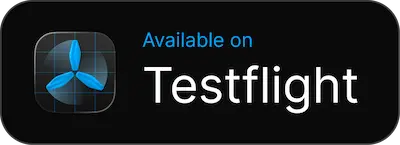
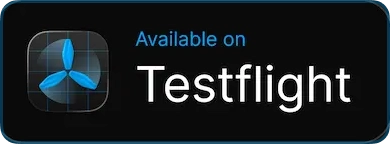
Add a Google Play badge and open the store apps on phones
The Google Play badge sits before the TestFlight one in the hero, and both
badges are a little bigger. On Android, the Play badge opens the Play Store
app; on iOS, the TestFlight badge opens the TestFlight app. Each falls back
to the store's web page if the app doesn't open. The "Join ... Now" card
buttons and the signup page's download button now send Android visitors to
Google Play instead of TestFlight.

diff --git a/index.html b/index.html
@@ -163,8 +163,11 @@
         </div>
       </div>
       <div class="appstore-container">
-        <a href="https://testflight.apple.com/join/nXyfPMSc" class="appstore-link" target="_blank" rel="noopener noreferrer" aria-label="Join Meetfleet TestFlight Beta">
-          <img src="assets/images/testflight.webp" class="appstore-btn" alt="Join TestFlight Beta" height="47" loading="eager">
+        <a href="https://play.google.com/store/apps/details?id=com.meetfleet.mobile" class="appstore-link" data-store="play" target="_blank" rel="noopener noreferrer" aria-label="Get Meetfleet on Google Play">
+          <img src="assets/images/google.webp" class="appstore-btn" alt="Get it on Google Play" width="146" height="54" loading="eager">
+        </a>
+        <a href="https://testflight.apple.com/join/nXyfPMSc" class="appstore-link" data-store="testflight" target="_blank" rel="noopener noreferrer" aria-label="Join Meetfleet TestFlight Beta">
+          <img src="assets/images/testflight.webp" class="appstore-btn" alt="Join TestFlight Beta" width="146" height="54" loading="eager">
         </a>
       </div>
     </section>
@@ -226,7 +229,7 @@
                         d="M12.586 2.586A2 2 0 0 0 11.172 2H4a2 2 0 0 0-2 2v7.172a2 2 0 0 0 .586 1.414l8.704 8.704a2.426 2.426 0 0 0 3.42 0l6.58-6.58a2.426 2.426 0 0 0 0-3.42z" />
                       <circle cx="7.5" cy="7.5" r=".5" fill="currentColor" />
                     </svg><span>Free</span></div>
-                </div><a href="https://testflight.apple.com/join/nXyfPMSc" target="_blank" rel="noopener noreferrer" class="join-btn" data-haptic="heavy">Join Maria Now</a>
+                </div><a href="https://testflight.apple.com/join/nXyfPMSc" target="_blank" rel="noopener noreferrer" class="join-btn" data-store="auto" data-haptic="heavy">Join Maria Now</a>
               </div>
               <div class="card-bottom-state message-state">
                 <div class="message-rect-container">
@@ -284,7 +287,7 @@
                         d="M12.586 2.586A2 2 0 0 0 11.172 2H4a2 2 0 0 0-2 2v7.172a2 2 0 0 0 .586 1.414l8.704 8.704a2.426 2.426 0 0 0 3.42 0l6.58-6.58a2.426 2.426 0 0 0 0-3.42z" />
                       <circle cx="7.5" cy="7.5" r=".5" fill="currentColor" />
                     </svg><span>Free</span></div>
-                </div><a href="https://testflight.apple.com/join/nXyfPMSc" target="_blank" rel="noopener noreferrer" class="join-btn" data-haptic="heavy">Join James Now</a>
+                </div><a href="https://testflight.apple.com/join/nXyfPMSc" target="_blank" rel="noopener noreferrer" class="join-btn" data-store="auto" data-haptic="heavy">Join James Now</a>
               </div>
               <div class="card-bottom-state message-state">
                 <div class="message-rect-container">
@@ -335,7 +338,7 @@
                         d="M20 10c0 4.993-5.539 10.193-7.399 11.799a1 1 0 0 1-1.202 0C9.539 20.193 4 14.993 4 10a8 8 0 0 1 16 0" />
                       <circle cx="12" cy="10" r="3" />
                     </svg><span>Malibu Coast</span></div>
-                </div><a href="https://testflight.apple.com/join/nXyfPMSc" target="_blank" rel="noopener noreferrer" class="join-btn" data-haptic="heavy">Join Alex Now</a>
+                </div><a href="https://testflight.apple.com/join/nXyfPMSc" target="_blank" rel="noopener noreferrer" class="join-btn" data-store="auto" data-haptic="heavy">Join Alex Now</a>
               </div>
               <div class="card-bottom-state message-state">
                 <div class="message-rect-container">
@@ -386,7 +389,7 @@
                         d="M20 10c0 4.993-5.539 10.193-7.399 11.799a1 1 0 0 1-1.202 0C9.539 20.193 4 14.993 4 10a8 8 0 0 1 16 0" />
                       <circle cx="12" cy="10" r="3" />
                     </svg><span>Royal Golf Rabat</span></div>
-                </div><a href="https://testflight.apple.com/join/nXyfPMSc" target="_blank" rel="noopener noreferrer" class="join-btn" data-haptic="heavy">Join Imad Now</a>
+                </div><a href="https://testflight.apple.com/join/nXyfPMSc" target="_blank" rel="noopener noreferrer" class="join-btn" data-store="auto" data-haptic="heavy">Join Imad Now</a>
               </div>
               <div class="card-bottom-state message-state">
                 <div class="message-rect-container">
@@ -444,7 +447,7 @@
                         d="M12.586 2.586A2 2 0 0 0 11.172 2H4a2 2 0 0 0-2 2v7.172a2 2 0 0 0 .586 1.414l8.704 8.704a2.426 2.426 0 0 0 3.42 0l6.58-6.58a2.426 2.426 0 0 0 0-3.42z" />
                       <circle cx="7.5" cy="7.5" r=".5" fill="currentColor" />
                     </svg><span>Free</span></div>
-                </div><a href="https://testflight.apple.com/join/nXyfPMSc" target="_blank" rel="noopener noreferrer" class="join-btn" data-haptic="heavy">Join Sarah Now</a>
+                </div><a href="https://testflight.apple.com/join/nXyfPMSc" target="_blank" rel="noopener noreferrer" class="join-btn" data-store="auto" data-haptic="heavy">Join Sarah Now</a>
               </div>
               <div class="card-bottom-state message-state">
                 <div class="message-rect-container">
@@ -495,7 +498,7 @@
                         d="M20 10c0 4.993-5.539 10.193-7.399 11.799a1 1 0 0 1-1.202 0C9.539 20.193 4 14.993 4 10a8 8 0 0 1 16 0" />
                       <circle cx="12" cy="10" r="3" />
                     </svg><span>Downtown</span></div>
-                </div><a href="https://testflight.apple.com/join/nXyfPMSc" target="_blank" rel="noopener noreferrer" class="join-btn" data-haptic="heavy">Join David Now</a>
+                </div><a href="https://testflight.apple.com/join/nXyfPMSc" target="_blank" rel="noopener noreferrer" class="join-btn" data-store="auto" data-haptic="heavy">Join David Now</a>
               </div>
               <div class="card-bottom-state message-state">
                 <div class="message-rect-container">
@@ -528,6 +531,7 @@
     <a href="https://research.meetfleet.org/">Peer Review</a>
   </footer>
 
+  <script src="store-links.js"></script>
   <script src="main.js"></script>
 </body>
 

diff --git a/store-links.js b/store-links.js
@@ -1,0 +1,56 @@
+/* ── STORE LINKS ──
+ * On phones, open the native store app instead of the store's web page.
+ *   data-store="play"        Google Play badge     → Play Store app on Android
+ *   data-store="testflight"  TestFlight badge      → TestFlight app on iOS
+ *   data-store="auto"        generic download CTA  → whichever store fits the device
+ * Anywhere else (desktop, the "other" phone OS) the link's href is followed as usual.
+ */
+(() => {
+  const PLAY_ID = 'com.meetfleet.mobile';
+  const PLAY_WEB = `https://play.google.com/store/apps/details?id=${PLAY_ID}`;
+  const PLAY_APP = `intent://details?id=${PLAY_ID}#Intent;scheme=market;package=com.android.vending;` +
+    `S.browser_fallback_url=${encodeURIComponent(PLAY_WEB)};end`;
+
+  const TESTFLIGHT_PATH = 'testflight.apple.com/join/nXyfPMSc';
+  const TESTFLIGHT_WEB = `https://${TESTFLIGHT_PATH}`;
+  const TESTFLIGHT_APP = `itms-beta://${TESTFLIGHT_PATH}`;
+
+  const ua = navigator.userAgent || '';
+  const isAndroid = /Android/i.test(ua);
+  // iPadOS Safari reports itself as a Mac, so also check for touch support.
+  const isIOS = /iPhone|iPad|iPod/i.test(ua) ||
+    (navigator.platform === 'MacIntel' && navigator.maxTouchPoints > 1);
+
+  // A custom scheme fails silently when its app isn't installed, so if the page
+  // is still in front shortly after, send the visitor to the web page instead.
+  function openApp(appUrl, webUrl) {
+    let left = false;
+    const markLeft = () => { left = true; };
+    document.addEventListener('visibilitychange', markLeft, { once: true });
+    window.addEventListener('pagehide', markLeft, { once: true });
+    window.addEventListener('blur', markLeft, { once: true });
+
+    setTimeout(() => {
+      document.removeEventListener('visibilitychange', markLeft);
+      window.removeEventListener('pagehide', markLeft);
+      window.removeEventListener('blur', markLeft);
+      if (!left && document.visibilityState === 'visible') window.location.href = webUrl;
+    }, 1500);
+
+    window.location.href = appUrl;
+  }
+
+  document.addEventListener('click', (e) => {
+    const link = e.target.closest('a[data-store]');
+    if (!link) return;
+    const store = link.dataset.store;
+
+    if (isAndroid && (store === 'play' || store === 'auto')) {
+      e.preventDefault();
+      openApp(PLAY_APP, PLAY_WEB);
+    } else if (isIOS && (store === 'testflight' || store === 'auto')) {
+      e.preventDefault();
+      openApp(TESTFLIGHT_APP, TESTFLIGHT_WEB);
+    }
+  });
+})();

diff --git a/signup/index.html b/signup/index.html
@@ -468,7 +468,7 @@
         </div>
 
         <div class="step-foot">
-          <a class="btn btn-primary" id="btn-testflight" href="https://testflight.apple.com/join/nXyfPMSc"
+          <a class="btn btn-primary" id="btn-testflight" data-store="auto" href="https://testflight.apple.com/join/nXyfPMSc"
             target="_blank" rel="noopener noreferrer">Download the app</a>
           <div style="height:10px"></div>
           <a class="btn btn-secondary" href="/">Go to Home</a>
@@ -525,6 +525,7 @@
     <span id="toast-text"></span>
   </div>
 
+  <script src="/store-links.js"></script>
   <script type="module" src="signup.js"></script>
 </body>
 

diff --git a/style.css b/style.css
@@ -258,7 +258,10 @@ main {
 /* ── APP STORE BADGE (BLURRED + DARK COMING SOON PILL) ── */
 .appstore-container {
   margin-top: 20px;
-  display: inline-block;
+  display: inline-flex;
+  flex-wrap: wrap;
+  align-items: center;
+  gap: 12px;
   overflow: visible;
   position: relative;
   z-index: 40;
@@ -273,6 +276,12 @@ main {
   position: relative;
   z-index: 45;
   pointer-events: auto;
+}
+
+.appstore-btn {
+  display: block;
+  height: 54px;
+  width: auto;
 }
 
 .appstore-badge-wrap {
